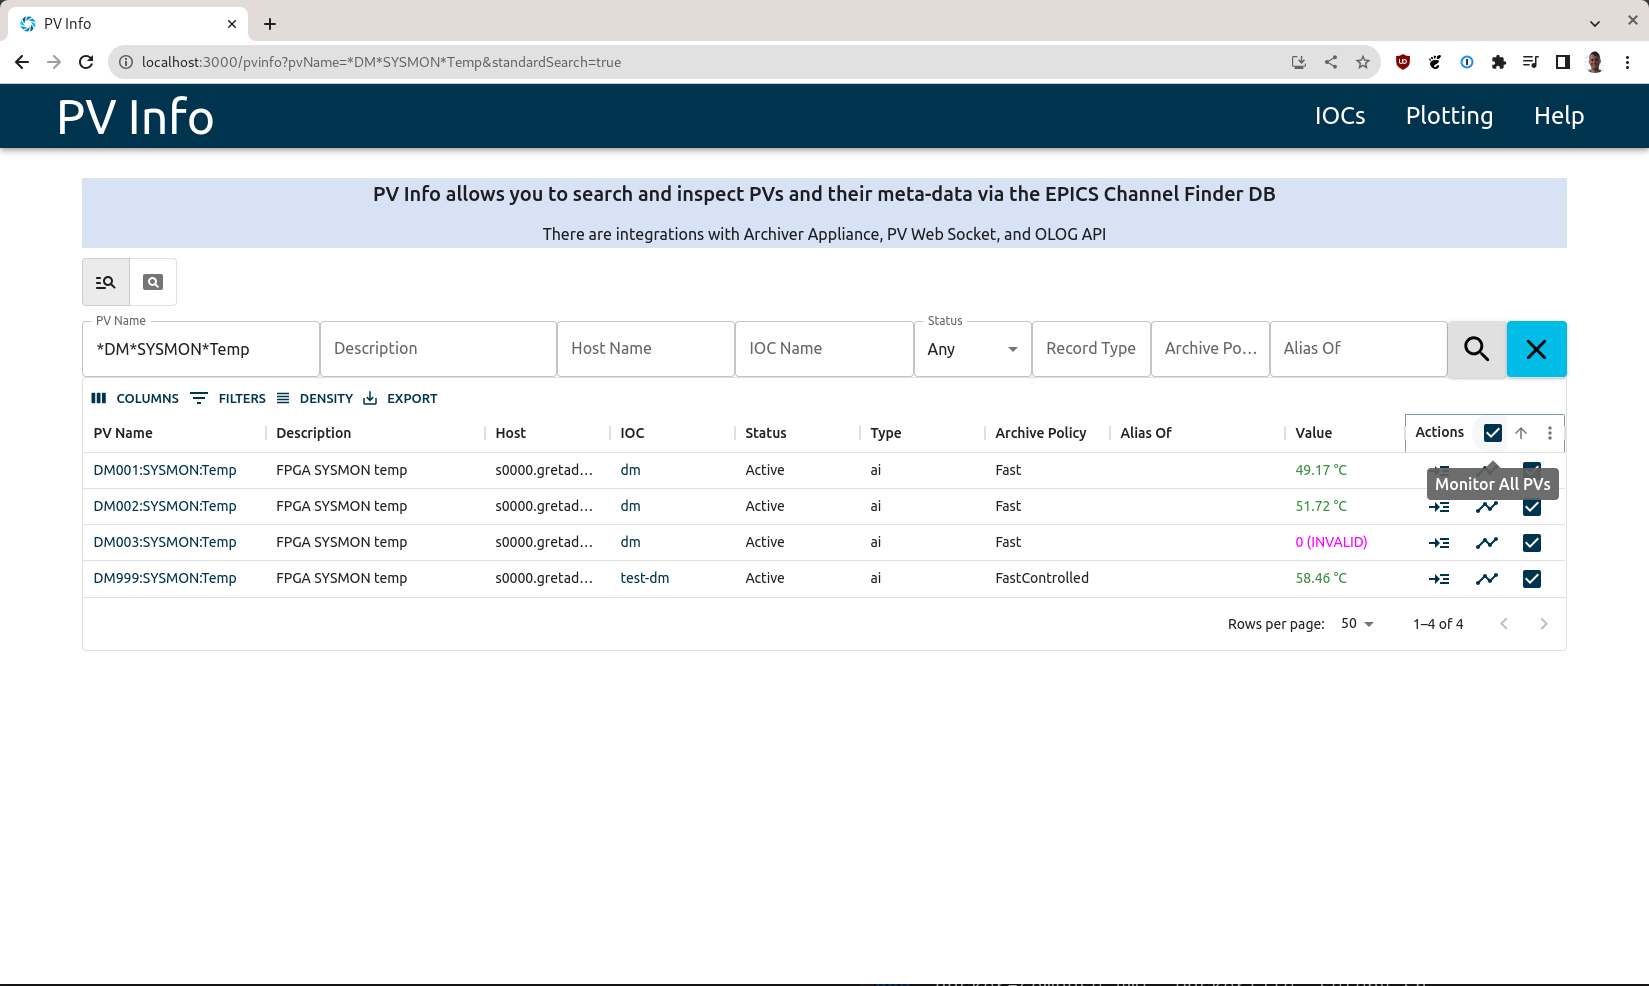
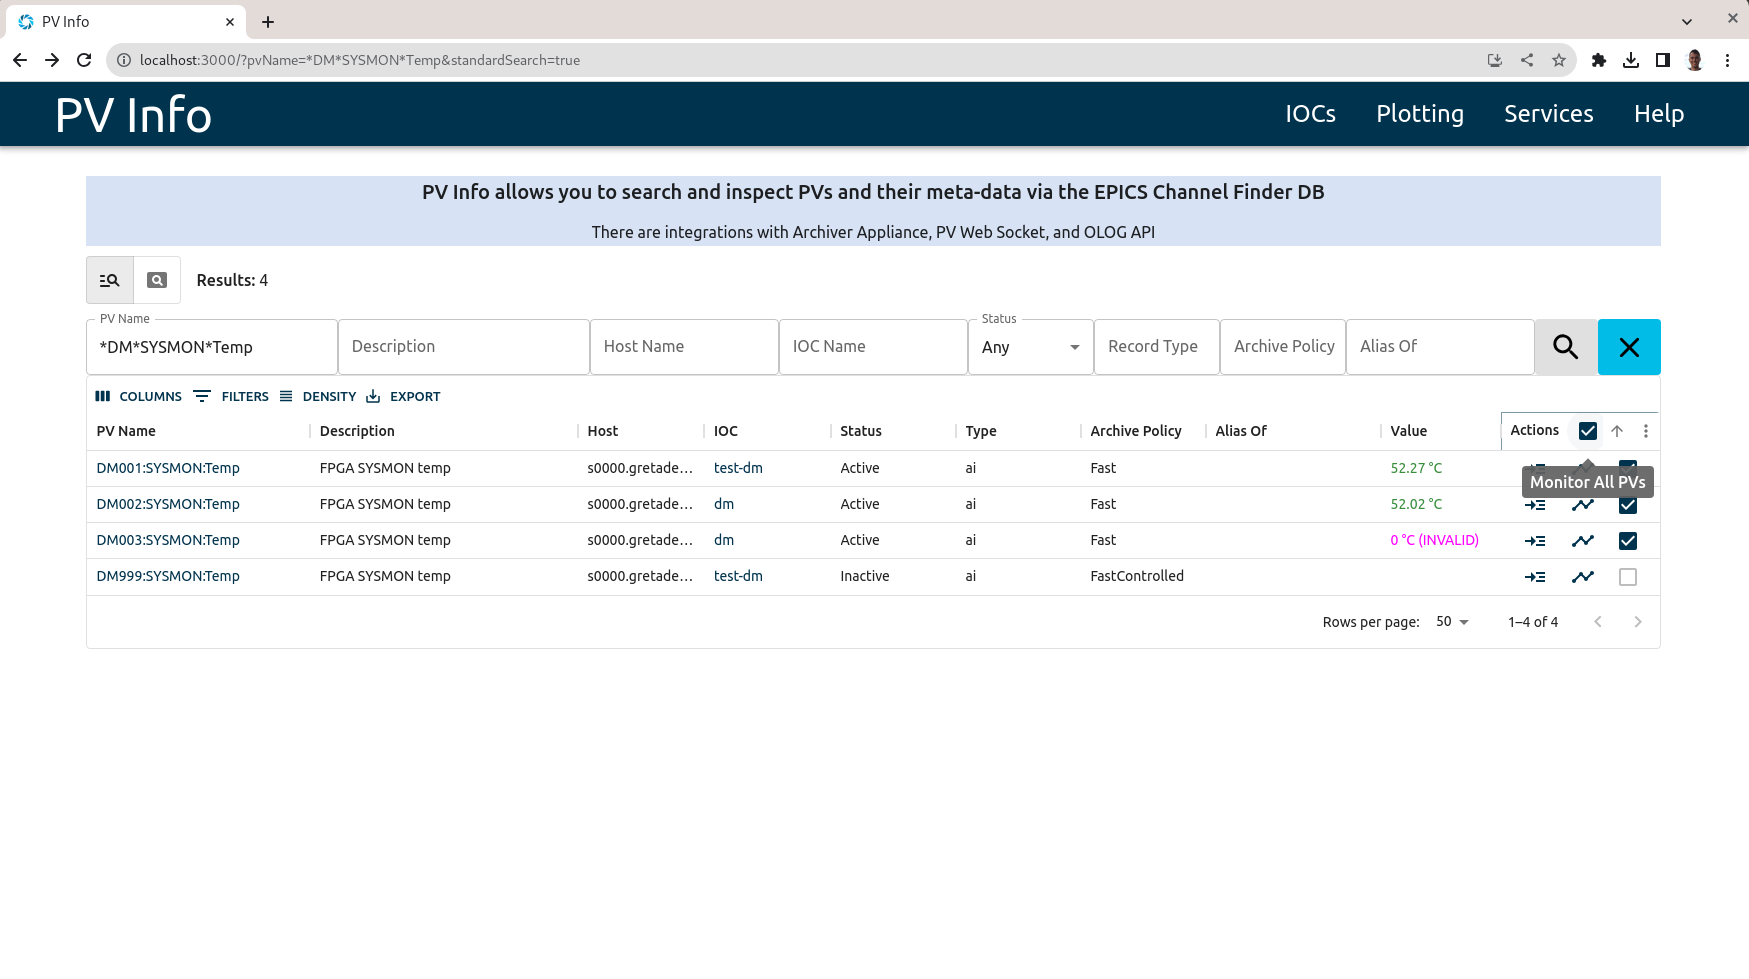
update screenshots

diff --git a/docs/example.md b/docs/example.md
@@ -9,3 +9,5 @@
 ![PV Details](./details.png?raw=true "PV Details")
 
 ![Alarm Log](./alarm-log.png?raw=true "Alarm Log")
+
+![Services](./services.png?raw=true "Services")
